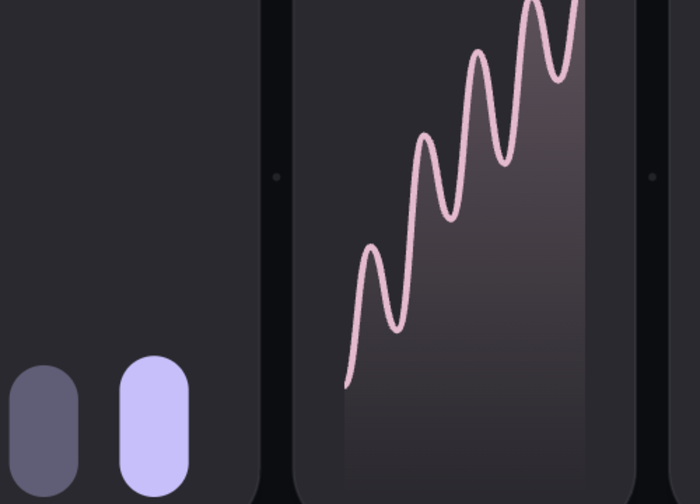
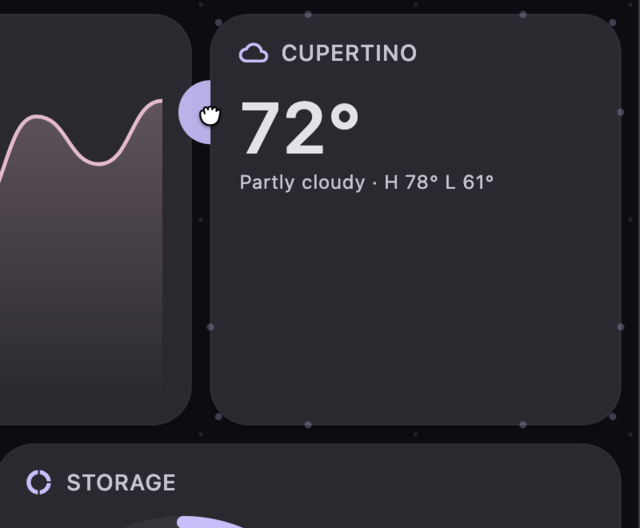
docs: signature-move GIF, L-gesture GIF, clearer handle image, dashboard keywords
- amoeba-push.gif re-choreographed per feedback: a corner card carried
  across the whole dashboard, trimming tasks/nowPlaying/notes on the way,
  auto-scrolling at the field edge, and nesting on drop.
- New l-gesture.gif: one side-handle gesture resizing two columns left and
  one row down at once (cross-row + horizontal + vertical), pushing three
  neighbors.
- handle-reveal.png retaken as a close-up with the grab cursor on the
  revealed tab, plus a caption explaining what the affordance means.
- README mentions dashboards throughout for keyword reference.

diff --git a/README.md b/README.md
@@ -9,14 +9,21 @@ change is remembered per viewport width.
 
 ## Why this exists
 
-Bento-style dashboards are everywhere, but the grids behind them are rigid:
-rectangles snapping into rectangles. `amoeba_grid` makes the field feel
-alive:
+Bento-style dashboards are everywhere, but the dashboard grids behind them
+are rigid: rectangles snapping into rectangles. `amoeba_grid` makes the
+whole dashboard feel alive.
 
-| Push a card *through* another | Carve a notch into a card |
+**The signature move** — grab a card and carry it across the dashboard:
+every card it crosses cedes its edge live and reverts as you pass, the
+field auto-scrolls when you reach its edge, and whoever you land on makes
+room:
+
+![Dragging a card across the dashboard, every card ceding as it passes](https://raw.githubusercontent.com/SupposedlySam/amoeba_grid/main/doc/amoeba-push.gif)
+
+| Resize across rows and columns at once | Carve a notch into a card |
 | --- | --- |
-| ![Amoeba push](https://raw.githubusercontent.com/SupposedlySam/amoeba_grid/main/doc/amoeba-push.gif) | ![Carve a notch](https://raw.githubusercontent.com/SupposedlySam/amoeba_grid/main/doc/carve-notch.gif) |
-| The neighbor cedes its aggressed edge live, reverts if you pass beyond it, and keeps its ceded shape if you drop while overlapping. | Side handles move one strip at a time; corner handles (convex *and* concave) move both edges. Previews snap at 50% cell crossings. |
+| ![L-shaped resize gesture](https://raw.githubusercontent.com/SupposedlySam/amoeba_grid/main/doc/l-gesture.gif) | ![Carving a notch](https://raw.githubusercontent.com/SupposedlySam/amoeba_grid/main/doc/carve-notch.gif) |
+| One L-shaped gesture on a single side handle: two columns left, then one row down — horizontal and vertical resizing together, pushing three neighbors amoeba-style. | Side handles retract one strip at a time; the notch gets a proper inside corner radius and its own concave handle. Previews snap at 50% cell crossings. |
 
 ## Features
 
@@ -41,6 +48,8 @@ alive:
   bucket and resolved mobile-first, through a two-method storage interface.
 - **Deep instrumentation** — every hover, snap, trim, relocation, and
   commit streams from `AmoebaGridDiagnostics`; debug-only, inert in release.
+- **Built for dashboards** — bento layouts, admin panels, home-automation
+  boards, analytics dashboards: anywhere users arrange widgets themselves.
 
 ## Quick start
 
@@ -84,7 +93,11 @@ class MyPrefsStorage implements AmoebaGridStorage {
 
 ## Interaction model
 
-![Handle reveal](https://raw.githubusercontent.com/SupposedlySam/amoeba_grid/main/doc/handle-reveal.png)
+A hover-revealed edge handle — the circle is the affordance, but the grab
+zone covers the entire edge plus half the gutter, and once revealed it owns
+the press wherever its zone reaches:
+
+![A revealed edge handle with hint dots on the other edges](https://raw.githubusercontent.com/SupposedlySam/amoeba_grid/main/doc/handle-reveal.png)
 
 | Gesture | Result |
 | --- | --- |